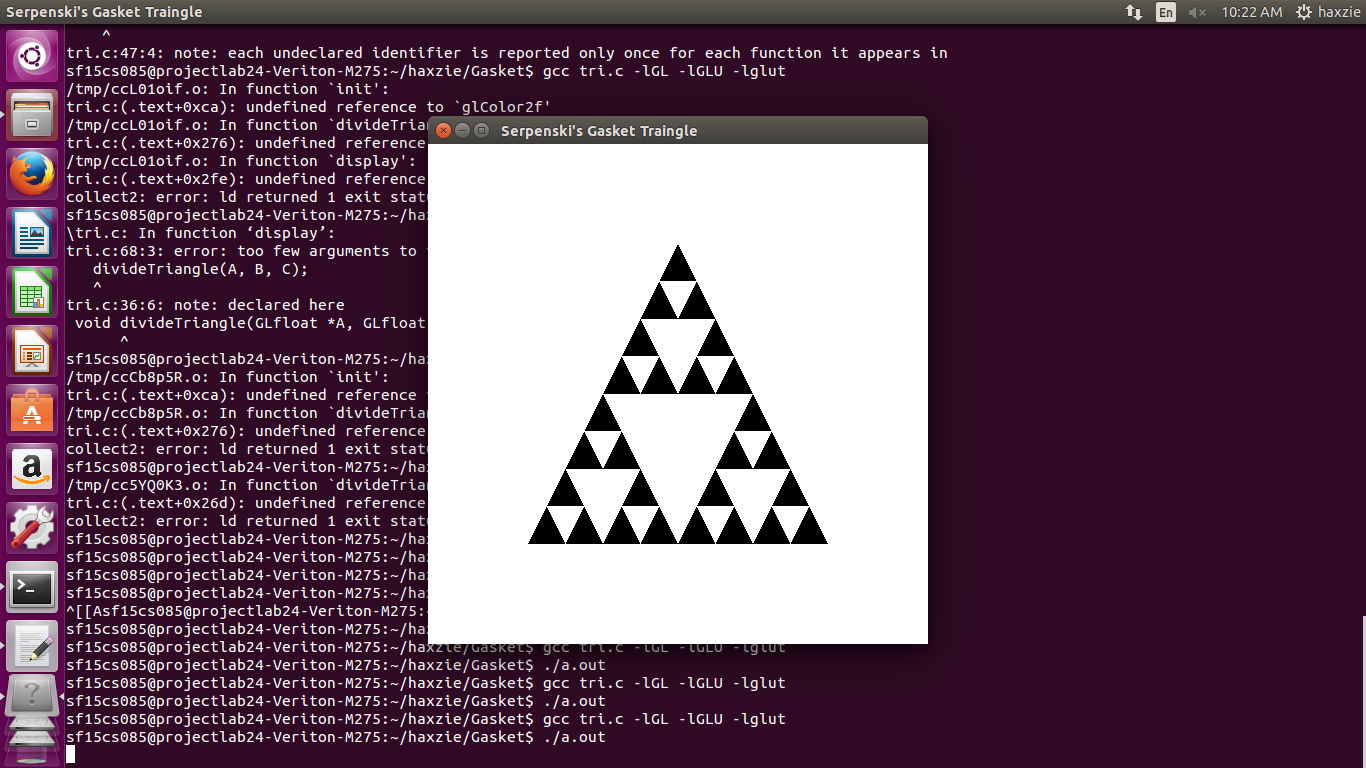
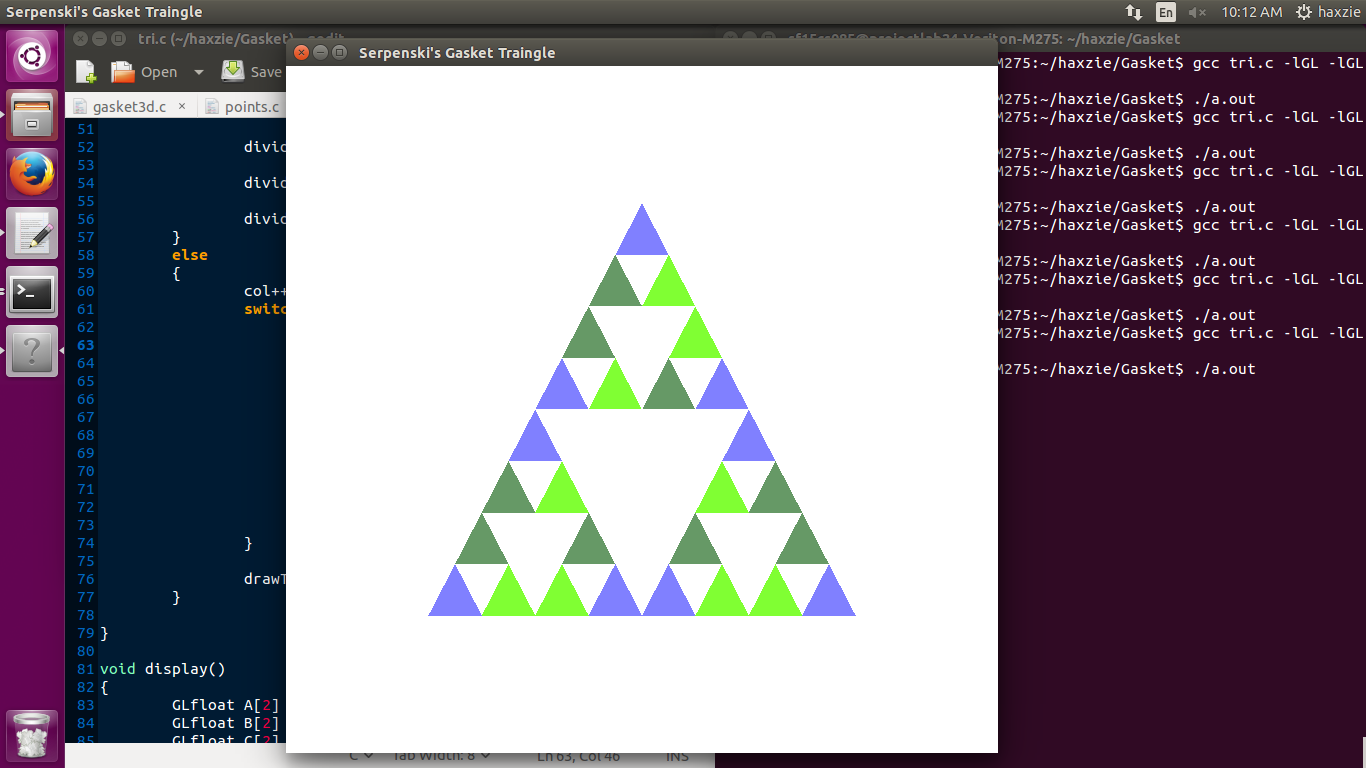
Added sierpenski's 3d gasket

diff --git a/Gasket/tri.c b/Gasket/tri.c
@@ -13,7 +13,7 @@ int main(int argc, char** argv)
 	glutInitDisplayMode(GLUT_SINGLE|GLUT_RGB);
 	glutInitWindowSize(500,500);
 	glutInitWindowPosition(20, 30);
-	glutCreateWindow("Serpenski's Gasket Traingle");
+	glutCreateWindow("2D Serpenski's Gasket Traingle");
 	init();
 	glutDisplayFunc(display);
 	glutMainLoop();
@@ -57,23 +57,22 @@ void divideTriangle(GLfloat *A, GLfloat *B, GLfloat *C, int divisions)
 	}
 	else
 	{
-	
-		printf("%d\n", col%3);	
-		switch(col++ % 3){
+		col++;
+		switch(col % 3){
 			case 0:
-				glColor3f(5.0, 1.0, 0.0);
+				glColor3f(0.5, 1.0, 0.2);
 				break;
 			case 1:
-				glColor3f(0.0, 5.0, 1.0);
+				glColor3f(0.5, 0.5, 1.0);
 				break;
 			case 2:
-				glColor3f(0.0, 0.0, 0.0);
+				glColor3f(0.4, 0.6, 0.4);
 				break;
 			default:
-				glColor3f(1.0, 5.0, 0.0);
+				glColor3f(0.0, 0.0, 0.0);
 				break;
 		}			
-				
+
 		drawTriangle(A, B, C);
 	}
 	

diff --git a/Gasket/points.c b/Gasket/points.c
@@ -18,19 +18,19 @@ void display()
 {
 	glClear(GL_COLOR_BUFFER_BIT);
 	
-	for( i=0; i<50000; i++)
+	for( i=0; i<100000; i++)
 	{
 		int j = rand() % 3;
 		glBegin(GL_POINTS);
 			switch (j){
 				case 0:
-					glColor3f(1.0, 0.0, 0.0);
+					glColor3f(0.7, 0.3, 0.2);
 					break;
 				case 1:
-					glColor3f(0.0, 1.0, 0.0);
+					glColor3f(0.4, 0.2, 0.8);
 					break;
 				default:
-					glColor3f(0.0, 0.0, 1.0);
+					glColor3f(0.4, 0.8, 0.0);
 					break;
 			}
 			p[0] = (p[0] + v[j][0]) /2;
@@ -48,7 +48,7 @@ int main(int argc, char **argv)
 	glutInitDisplayMode(GLUT_SINGLE|GLUT_RGB);
 	glutInitWindowSize(500, 500);
 	glutInitWindowPosition(20, 30);
-	glutCreateWindow("Gasket Points");
+	glutCreateWindow("2D Sierpenski's Gasket using Points");
 	init();
 	glutDisplayFunc(display);
 	glutMainLoop();
